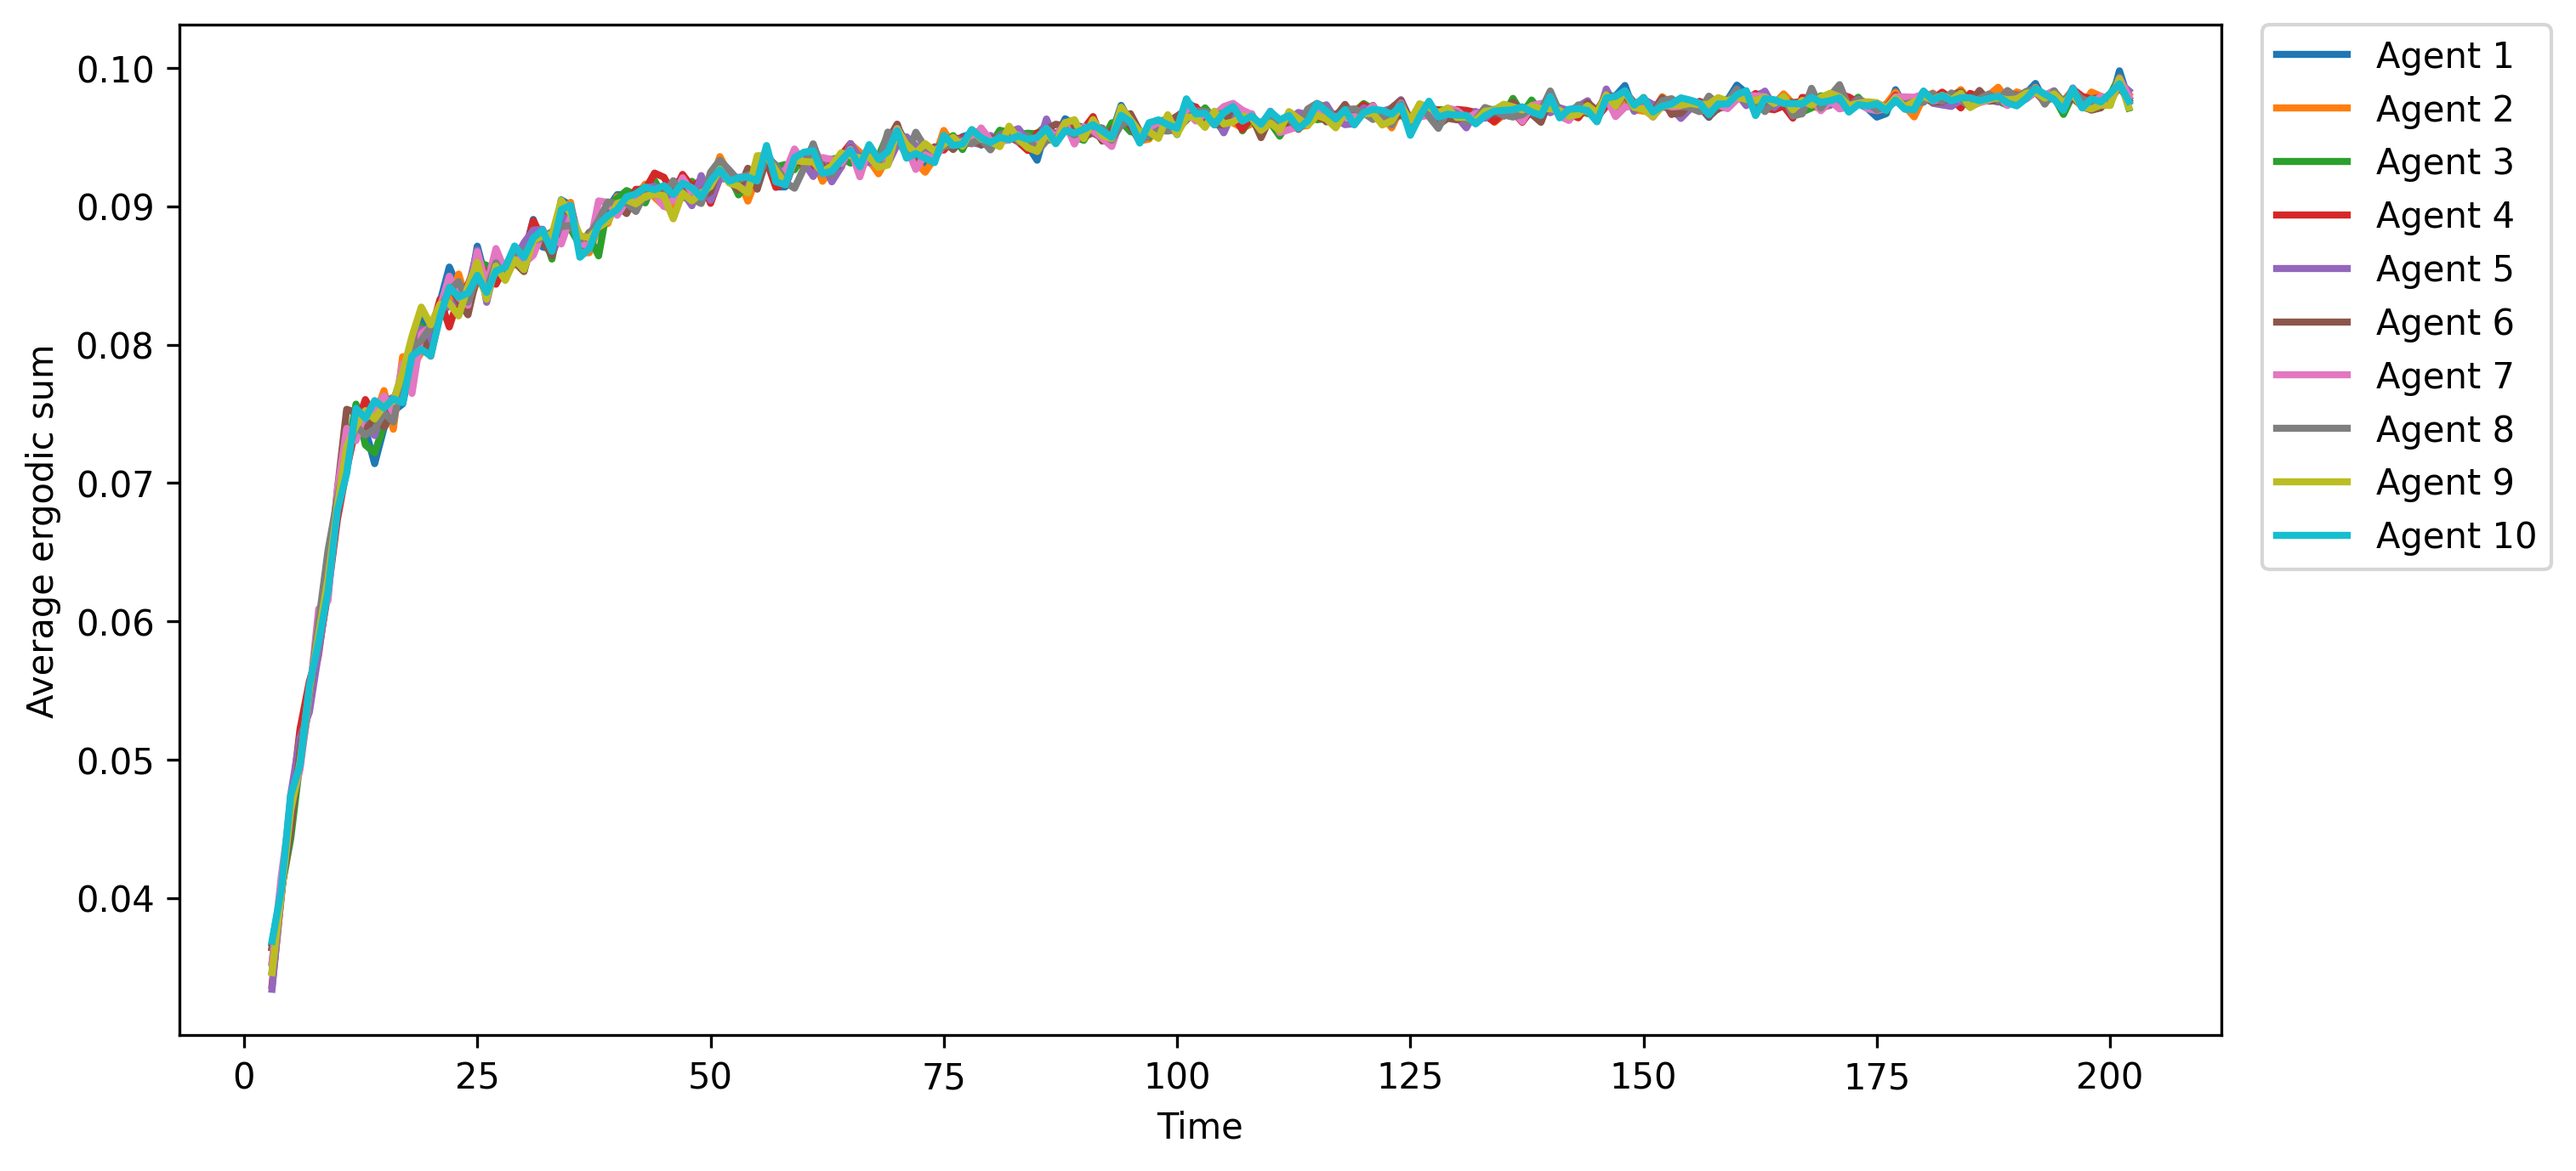
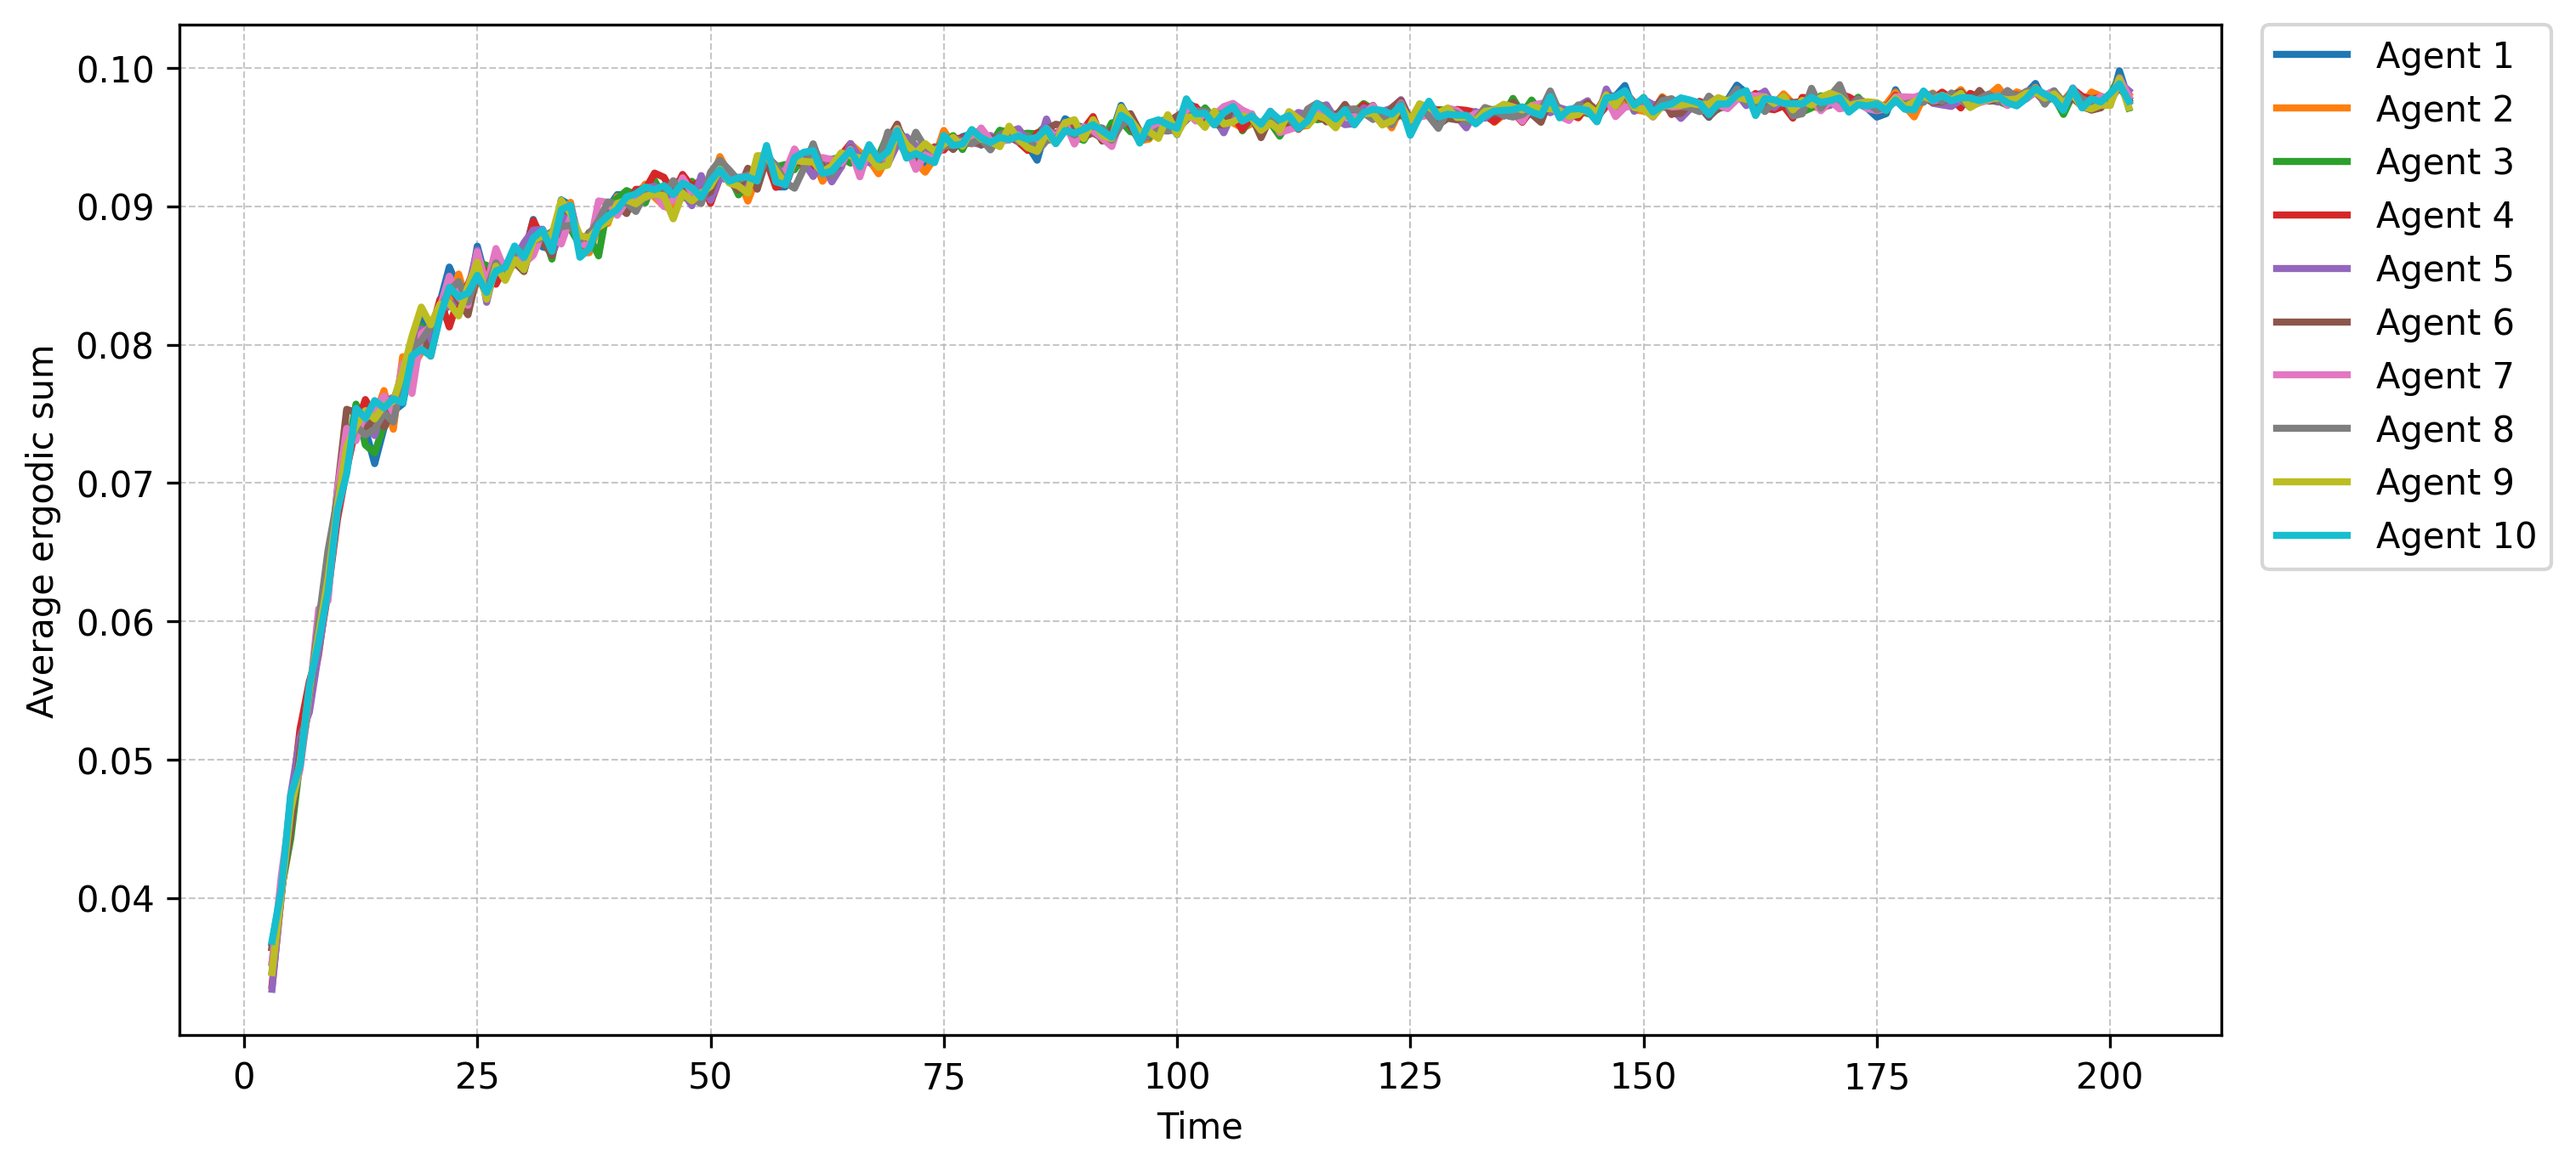
added gridlines to figures

diff --git a/src/simulations/test.py b/src/simulations/test.py
@@ -1,20 +1,48 @@
-
 import numpy as np
+import matplotlib.pyplot as plt 
+Time = 200
+N=10
+all_means = np.load("data/all_means_N10_M5_homo_bot.npy")
 
-A_hub_spoke = np.array([
-    [1, 0, 0, 0, 0, 0, 0, 0, 0, 0],
-    [1, 0, 0, 0, 0, 0, 0, 0, 0, 0],
-    [1, 0, 0, 0, 0, 0, 0, 0, 0, 0],
-    [1, 0, 0, 0, 0, 0, 0, 0, 0, 0],
-    [1, 0, 0, 0, 0, 0, 0, 0, 0, 0],
-    [1, 0, 0, 0, 0, 0, 0, 0, 0, 0],
-    [1, 0, 0, 0, 0, 0, 0, 0, 0, 0],
-    [1, 0, 0, 0, 0, 0, 0, 0, 0, 0],
-    [1, 0, 0, 0, 0, 0, 0, 0, 0, 0],
-    [1, 0, 0, 0, 0, 0, 0, 0, 0, 0]
-])
+time = np.arange(3, Time + 3)
 
-np.save(
-    "data/A_hub_spoke.npy",
-    A_hub_spoke
+plt.figure(figsize=(10, 4.5))
+
+for node in range(N):
+
+    plt.plot(
+        time,
+        all_means[:, node],
+        linewidth=2,
+        label=f"Agent {node+1}"
+    )
+plt.axhline(
+    y=0.1,
+    color="black",
+    linestyle="--",
+    linewidth=2,
+    label=r"$p^{(*)}=0.1$"
 )
+plt.legend(
+    bbox_to_anchor=(1.02, 1),
+    loc="upper left",
+    borderaxespad=0.
+)
+
+plt.tight_layout()
+
+plt.xlabel("Time")
+plt.ylabel("Average ergodic sum")
+plt.grid(True, linestyle="--", linewidth=0.5, alpha=0.7)
+
+plt.title(
+    rf"Average ergodic sum: $\beta = 0.2,\ \eta_B = 0.8$"
+)
+
+plt.savefig(
+    "figures/all_means_N10_M5_homo_bot.png",
+    dpi=300,
+    bbox_inches="tight"
+)
+
+plt.show()
